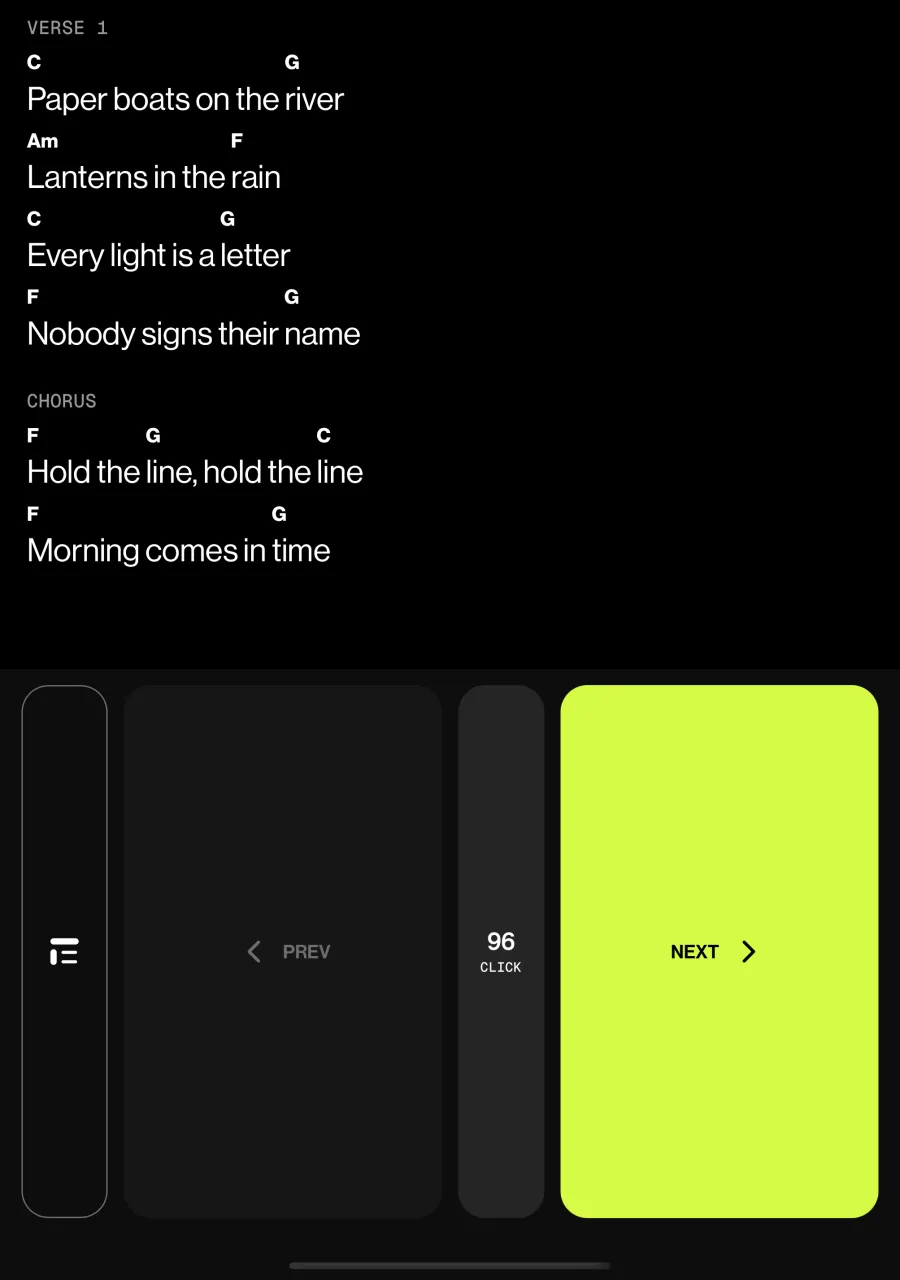
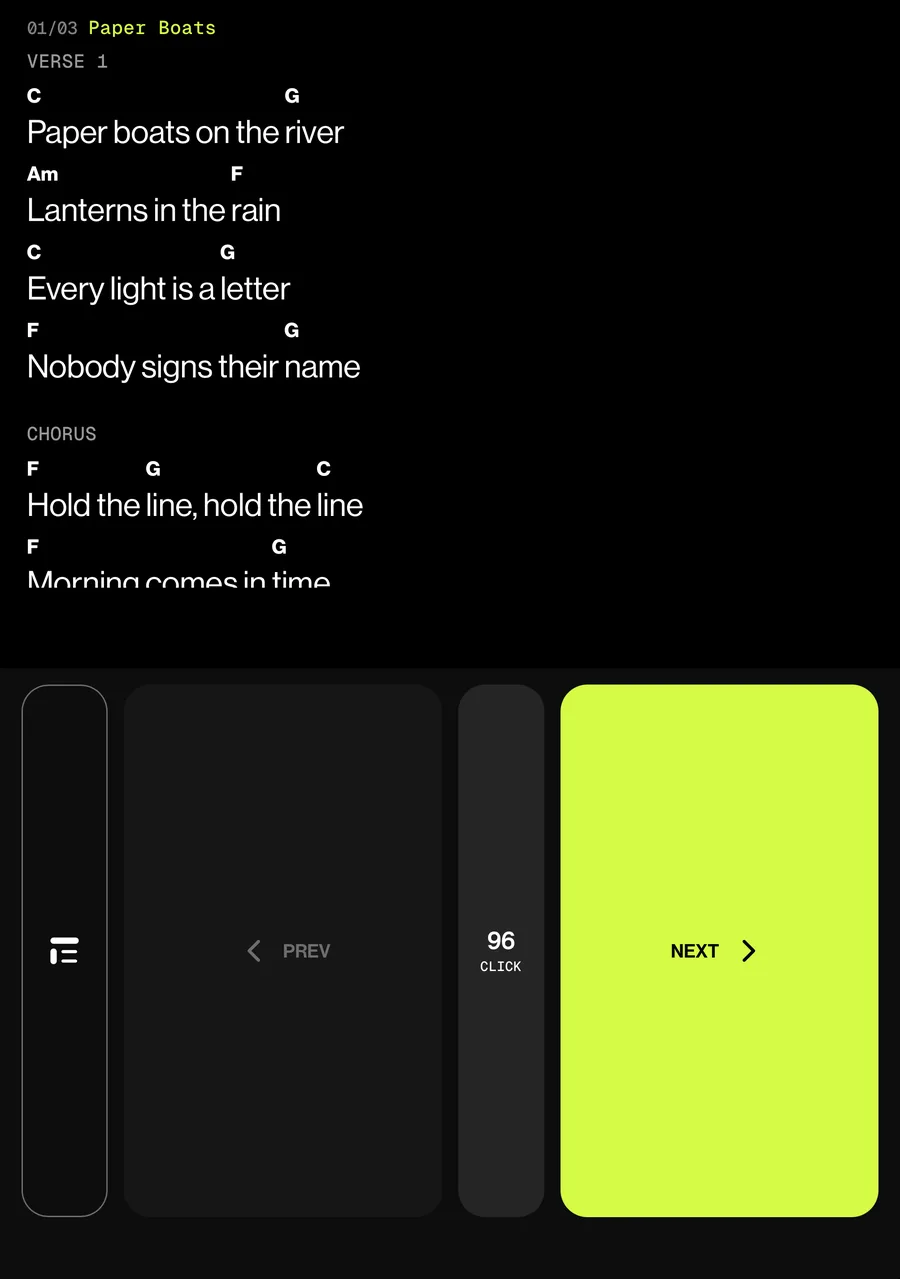
Laptop pose: the same small line naming the song in Song only
Asked by the main session for every device: the floor wedge's Display now
shows the song's number and title in one small line above it, as
StageSongOnly does. Test: FloorWedgeMode.songOnly.test.tsx (fails on the
old code); the e2e laptop check now expects the line. Academy duoLaptop shot
recaptured on the Duo simulator.

Changed region(s): [[0.0311, 0.0, 0.4044, 0.4574], [0.3111, 0.9758, 0.6844, 1.0]]

diff --git a/src/app/components/duo/__tests__/FloorWedgeMode.songOnly.test.tsx b/src/app/components/duo/__tests__/FloorWedgeMode.songOnly.test.tsx
@@ -1,0 +1,54 @@
+import React from 'react';
+import { describe, it, expect, vi, afterEach } from 'vitest';
+import { act, render, screen, cleanup } from '@testing-library/react';
+
+vi.mock('@/lib/haptics', () => ({
+  haptic: { tap: vi.fn(), medium: vi.fn(), confirm: vi.fn(), delete: vi.fn(), selection: vi.fn() },
+}));
+
+import { computePosture, updatePosture, LAPTOP_POSE_PREF, SETTLE_MS } from '@/lib/posture';
+import { setStageSongOnly } from '@/lib/stageChrome';
+import { FloorWedgeMode } from '../modes/FloorWedgeMode';
+
+globalThis.ResizeObserver = class {
+  observe() {}
+  unobserve() {}
+  disconnect() {}
+} as unknown as typeof ResizeObserver;
+
+const tabletop = () => {
+  vi.useFakeTimers({ toFake: ['setTimeout', 'clearTimeout'] });
+  act(() => {
+    updatePosture(computePosture({ viewport: { w: 669, h: 900 }, division: { x: 0, y: 440, w: 669, h: 20 }, hinge: 'half-open' }));
+  });
+  act(() => {
+    vi.advanceTimersByTime(SETTLE_MS);
+  });
+  vi.useRealTimers();
+};
+
+afterEach(() => {
+  cleanup();
+  act(() => setStageSongOnly(false));
+  act(() => {
+    updatePosture(computePosture({ viewport: { w: 393, h: 852 } }));
+  });
+  localStorage.removeItem(LAPTOP_POSE_PREF);
+});
+
+const songs = [
+  { title: 'Paper Boats', key: 'C', lyrics: '[C]Paper boats on the [G]river' },
+  { title: 'Harbor Lights', key: 'G', lyrics: '[G]Harbor lights are [D]calling' },
+];
+
+describe('Laptop pose, Song only (the floor wedge)', () => {
+  it('names the song in one small line above it, as on every other device', () => {
+    tabletop();
+    act(() => setStageSongOnly(true));
+    render(<FloorWedgeMode songs={songs} lyricsOn onClose={vi.fn()} />);
+    const view = screen.getByLabelText('Song only: Paper Boats');
+    expect(view).toHaveTextContent('Paper boats on the');
+    expect(view).toHaveTextContent('01/02');
+    expect(view).toHaveTextContent('Paper Boats');
+  });
+});

diff --git a/src/app/components/duo/modes/FloorWedgeMode.tsx b/src/app/components/duo/modes/FloorWedgeMode.tsx
@@ -245,9 +245,14 @@ export const FloorWedgeMode: React.FC<FloorWedgeModeProps> = ({
           className="bw-fold-clear flex-1 min-h-0 overflow-y-auto overscroll-contain"
           aria-label={t('Song only: {title}', { title: song.title })}
         >
-          <span className="sr-only" aria-live="polite">
-            {t('Song {index} of {count}', { index: index + 1, count })} · {song.title}
-          </span>
+          {/* Which song this is, in one small line (as StageSongOnly): the song takes the rest. */}
+          <p className="flex items-baseline gap-2 min-w-0 pb-2" aria-live="polite">
+            <span className="sr-only">{t('Song {index} of {count}', { index: index + 1, count })} · </span>
+            <span aria-hidden className="bw-num text-[13px] font-medium shrink-0 text-white/50">
+              {String(index + 1).padStart(2, '0')}/{String(count).padStart(2, '0')}
+            </span>
+            <span className="bw-label-md normal-case truncate min-w-0 text-accent">{song.title}</span>
+          </p>
           <SongBody
             song={content}
             view={songView}

diff --git a/e2e/specs/stage-song-only.spec.ts b/e2e/specs/stage-song-only.spec.ts
@@ -62,7 +62,8 @@ async function expectSongOnly(app: App, song: string, text: RegExp) {
     const deck = app.page.getByRole('region', { name: app.t('Song controls') });
     await expect(display).toContainText(text);
     await expect(display.getByRole('heading', { name: song })).toHaveCount(0);
-    await expect(display.getByText(song, { exact: true })).toHaveCount(0);
+    // One small line names the song, as on every other device.
+    await expect(display.getByText(song, { exact: true }).filter({ visible: true })).toHaveCount(1);
     await expect(deck.getByRole('tablist')).toHaveCount(0);
     const names = await deck.getByRole('button').evaluateAll((bs) => bs.map((b) => b.getAttribute('aria-label') ?? b.textContent?.trim()));
     expect(names.map((n) => (n?.startsWith(app.t('Start the click')) ? 'click' : n))).toEqual([
